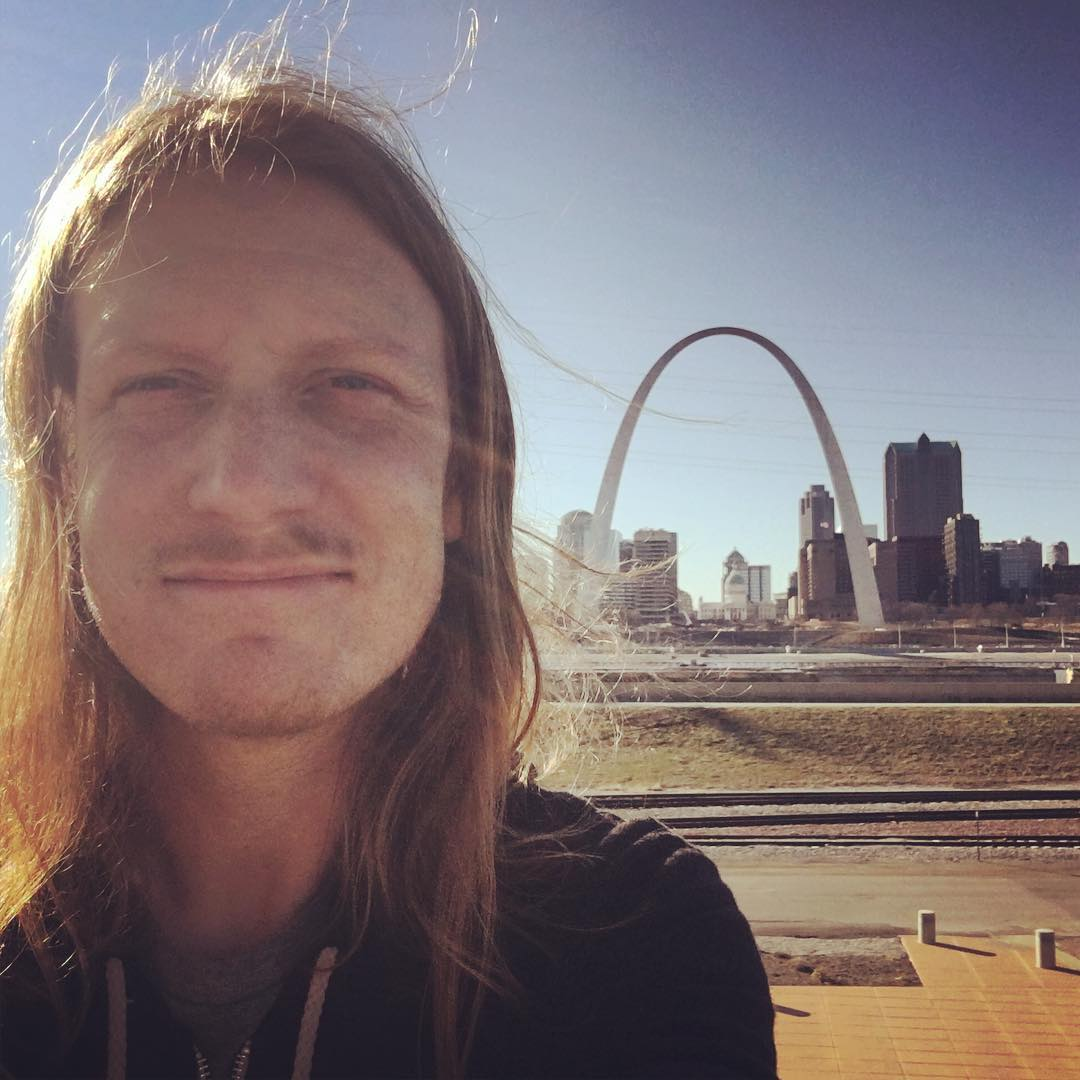
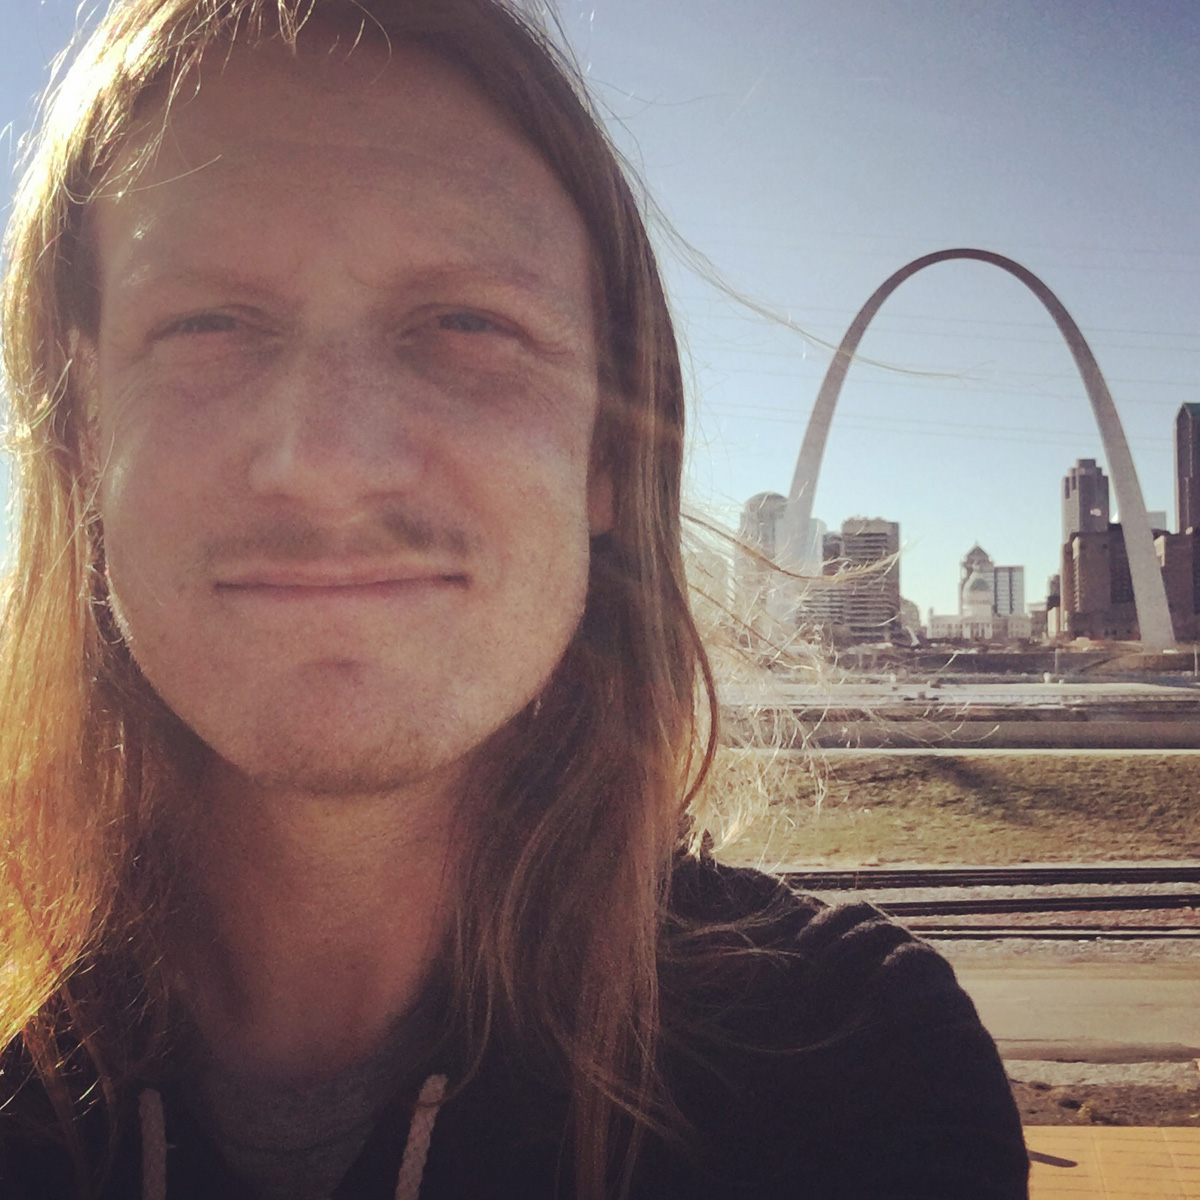
rebooted device styles

diff --git a/index.html b/index.html
@@ -2,7 +2,7 @@
 <html lang="en">
 <head>
 
-	<title>Dylan Hassinger &mdash; Programmer - Activist - Candidate</title>
+	<title>Dylan Hassinger :: Programmer, Activist, Candidate for Missouri Senate (5th District)</title>
 
 	<!-- encoding -->
 	<meta charset="utf-8" />
@@ -47,22 +47,22 @@
 	-->
 
 </head>
-<body class="pad-40">
-
-	<header class="box">
+<body>
+ 
+	<header id="header" class="resume-box">
 	
 		<div class="grid">
 		
-			<div class="col-7-12 text-center pad-top-10 left-col">
+			<div class="col-7-12 text-center left-col">
 					
 				<h1>Dylan Hassinger</h1>
 				<p class="color-flat-blue">programmer / activist / candidate</p>
 				
 				<blockquote>I've filed as a candidate for the Missouri Senate in the Democratic primary on August 2nd 2016, because we need New Ideas &amp; New Leadership in St. Louis</blockquote>
-				
+			
 				<h6>follow the campaign at <a href="http://dylan4senate.com">dylan4senate.com</a></h6>
 				
-				<p class="color-flat-blue margin-top-25 margin-bottom-0"><small>or see my past projects:</small></p>
+				<p class="color-flat-blue"><small>or see my past projects:</small></p>
 				
 				<ul class="tags">
 				
@@ -74,13 +74,13 @@
 					<li class="link-flat-yellow"><a href="#education">#education</a></li>										
 									
 				</ul>
-							
+				
 			</div>
 		
 			<div class="col-5-12 text-center right-col">
 			
-				<a href="img/dylanhassinger.jpg" title="Dylan Hassinger - programmer, activist, candidate for Missouri Senate">
-					<img class="block centered" src="img/dylanhassinger_full.jpg" alt="Dylan Hassinger" />
+				<a href="img/dylanhassinger.jpg" title="Dylan Hassinger picture">
+					<img src="img/dylanhassinger.jpg" alt="Dylan Hassinger - programmer, activist, candidate for Missouri Senate (5th District)" />
 				</a>	
 			
 			</div>
@@ -89,7 +89,7 @@
 		
 	</header>
 	
-	<section id="technology" class="box border-flat-red">
+	<section id="technology" class="resume-box border-flat-red">
 		
 		<h2 class="color-flat-red">Technology</h2>
 		
@@ -119,7 +119,7 @@
 	
 	</section>
 
-	<section id="politics" class="box border-flat-blue">
+	<section id="politics" class="resume-box border-flat-blue">
 	
 		<h2 class="color-flat-blue">Politics</h2>
 		
@@ -159,7 +159,7 @@
 	
 	</section>
 	
-	<section id="startups" class="box border-flat-orange">
+	<section id="startups" class="resume-box border-flat-orange">
 	
 		<h2 class="color-flat-orange">Startups</h2>
 		
@@ -195,7 +195,7 @@
 	
 	</section>
 	
-	<section id="community" class="box border-flat-green">
+	<section id="community" class="resume-box border-flat-green">
 	
 		<h2 class="color-flat-green">Community</h2>
 		
@@ -231,7 +231,7 @@
 		
 	</section>
 	
-	<section id="music" class="box border-flat-purple">
+	<section id="music" class="resume-box border-flat-purple">
 	
 		<h2 class="color-flat-purple">Music</h2>
 		
@@ -266,7 +266,7 @@
 			
 	</section>
 	
-	<section id="education" class="box border-flat-yellow">
+	<section id="education" class="resume-box border-flat-yellow">
 	
 		<h2 class="color-flat-yellow">Education</h2>
 		
@@ -296,7 +296,7 @@
 			
 	</section>
 	
-	<footer id="contact" class="box border-ccc">
+	<footer id="contact" class="resume-box border-ccc">
 	
 		<h2>Contact</h2>
 
@@ -318,7 +318,11 @@
 	
 	</footer>	
 	
-	<p class="sub-footer text-center"><small><a href="http://github.com/dylanized/resume">designed and coded by @dylanized</a> <span class="sep">::</span> <a href="http://dylan4senate.com">paid for by Dylan Hassinger for Senate</a></small></p>
+	<footer class="footer">
+	
+		<p class="text-center"><small><a href="http://github.com/dylanized/resume">designed and built by @dylanized</a> <span class="sep">::</span> <a href="http://dylan4senate.com">paid for by Dylan Hassinger for Senate</a></small></p>
+	
+	</footer>
 
 	<!-- footer js -->
 	<script>
